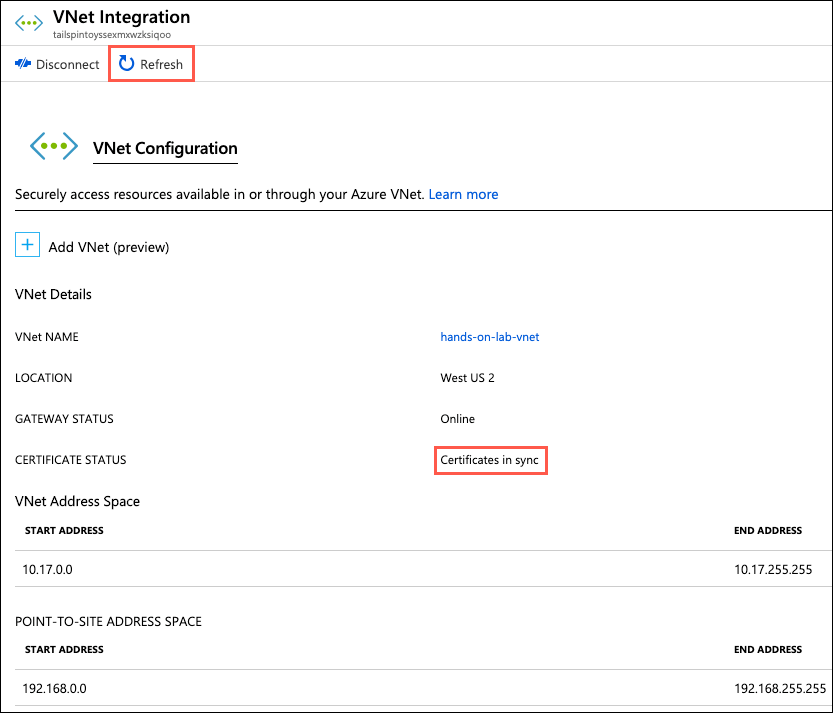
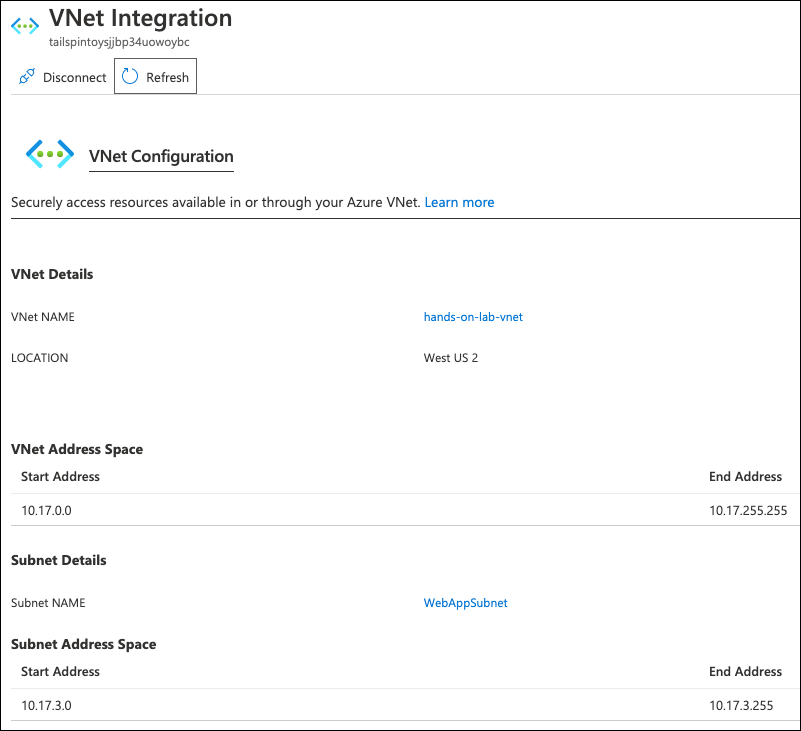
HOL Exercise 4 updates + WWI rebranding

diff --git a/Hands-on lab/HOL step-by-step - Migrating SQL databases to Azure.md b/Hands-on lab/HOL step-by-step - Migrating SQL databases to Azure.md
@@ -874,9 +874,9 @@ In this task, you configure the client address pool. This is a range of private 
 
    ![The Virtual network gateway resource is highlighted in the list of resources.](media/resource-group-vnet-gateway.png "Resources")
 
-2. On the virtual network gateway blade, select **Point-to-site configuration** under Settings in the left-hand menu, and then select **Configure now**.
+2. On the virtual network gateway blade, select **User VPN configuration** under Settings in the left-hand menu, and then select **Configure now**.
 
-   ![Point-to-site configuration is highlighted and selected in the left-hand menu. On the Point-to-site configuration blade, Configure now is highlighted.](media/virtual-network-gateway-configure-point-to-site.png "Virtual network gateway")
+   ![User VPN configuration is highlighted and selected in the left-hand menu. On the User VPN configuration blade, Configure now is highlighted.](media/virtual-network-gateway-configure-point-to-site.png "Virtual network gateway User VPN configuration")
 
 3. On the **Point-to-site** configuration page, set the following configuration:
 
@@ -907,9 +907,15 @@ In this task, you add the networking configuration to your App Service to enable
 
    ![Add VNet is highlighted on the VNet Configuration blade.](media/app-service-vnet-configuration.png "App Service")
 
-4. Select the **hands-on-lab-SUFFIX-vnet** in the Virtual Network dialog.
+4. On the Network Feature Status dialog, enter the following:
 
-   ![The hands-on-lab-SUFFIX-vnet** is highlighted.](media/app-service-vnet-configuration-add-vnet.png "App Service")
+   - **Virtual Network**: Select the hands-on-lab-SUFFIX-vnet.
+   - **Subnet**: Select Create New Subnet.
+   - **Subnet Name**: Enter WebAppSubnet.
+   - **Virtual Network Address Block**: Select the only option under this dropdown, 10.x.0.0/16.
+   - **Subnet Address Block**: Enter a subnet with a /24 block, such as 10.x.3.0/24.
+
+   ![The values specified above are entered into the Network Feature Status dialog.](media/app-service-vnet-network-feature-status.png "Network Feature Status configuration")
 
 5. Within a few minutes, the VNet is added, and your App Service is restarted to apply the changes. Select **Refresh** to see the details. You should see that the certificate status is Certificates in sync. **Note**: If the certificate status is not in sync, try hitting refresh, as it can take a moment for that status to be reflected.
 
